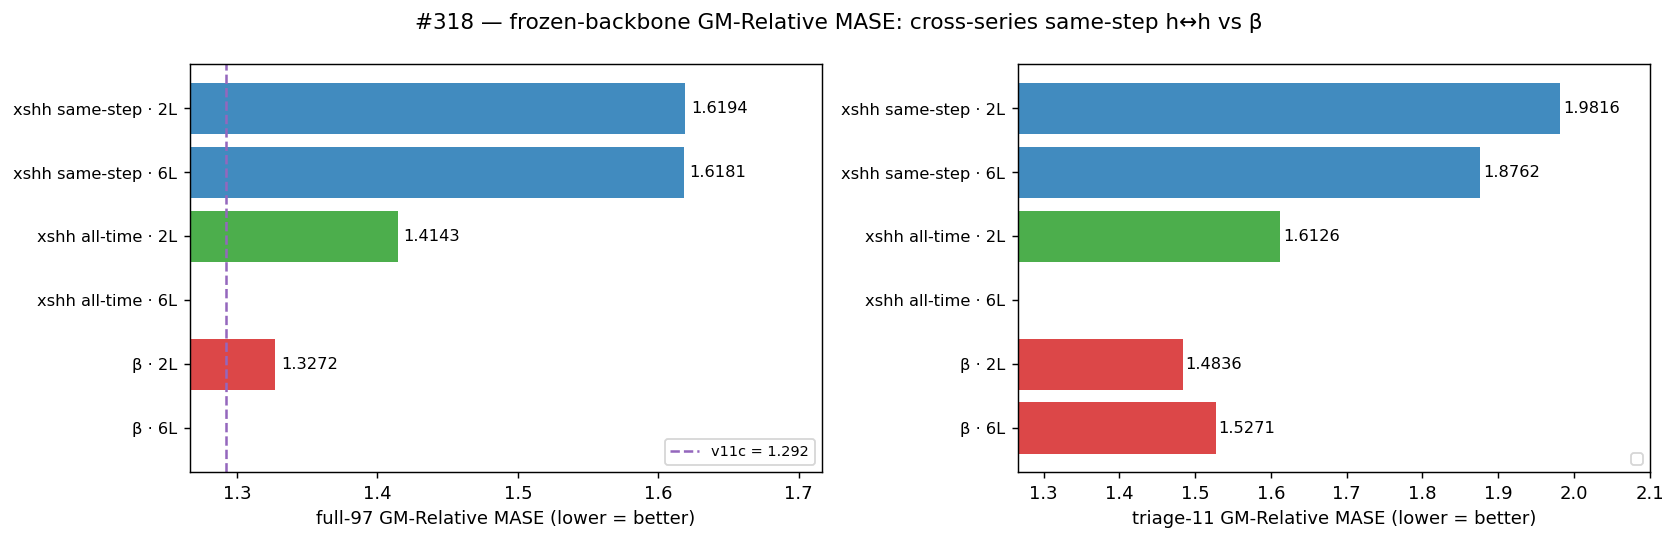
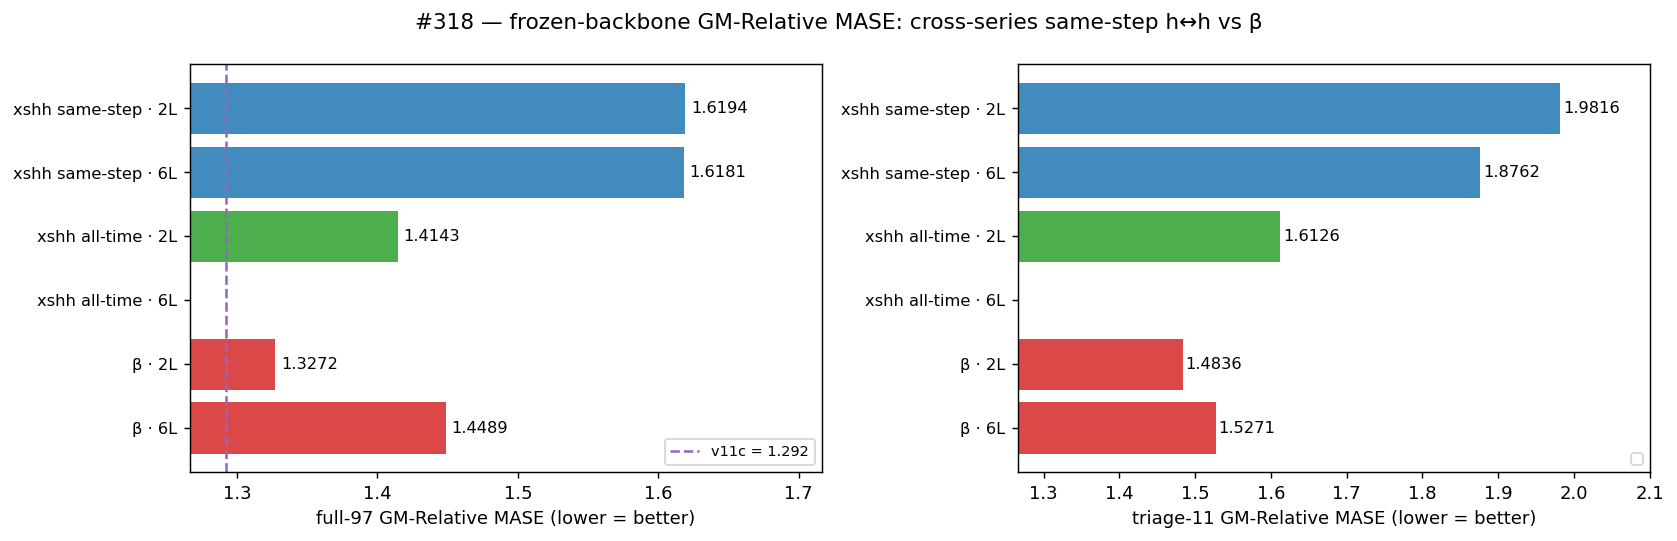
results(#318): β 6L full = 1.4489 (bigger head HURTS β, +9% vs 2L 1.3272)
Confirms 'bigger heads don't help' — they hurt the strong β backbone. With
same-step 6L≈2L, the 6L q-head helps no arm. vs-step phase now running (GPU 0).

Changed region(s): [[0.093, 0.7394, 0.3101, 0.8577]]

diff --git a/experiments/2026-05-23_xseries_hh/RESULTS.md b/experiments/2026-05-23_xseries_hh/RESULTS.md
@@ -131,7 +131,7 @@ _(landing)_
 | Backbone | head | full-97 GM | triage-11 GM |
 |----------|:----:|-----------:|-------------:|
 | **β** (#309) | 2L | 1.3272 | 1.4836 |
-| **β** (#309) | 6L | _(landing)_ | 1.5271 |
+| **β** (#309) | 6L | 1.4489 | 1.5271 |
 | **xshh same-step** | 2L | **1.6194** | 1.9816 |
 | **xshh same-step** | 6L | 1.6181 | 1.8762 |
 | **xshh all-time** | 2L | **1.4143** | 1.6126 |
